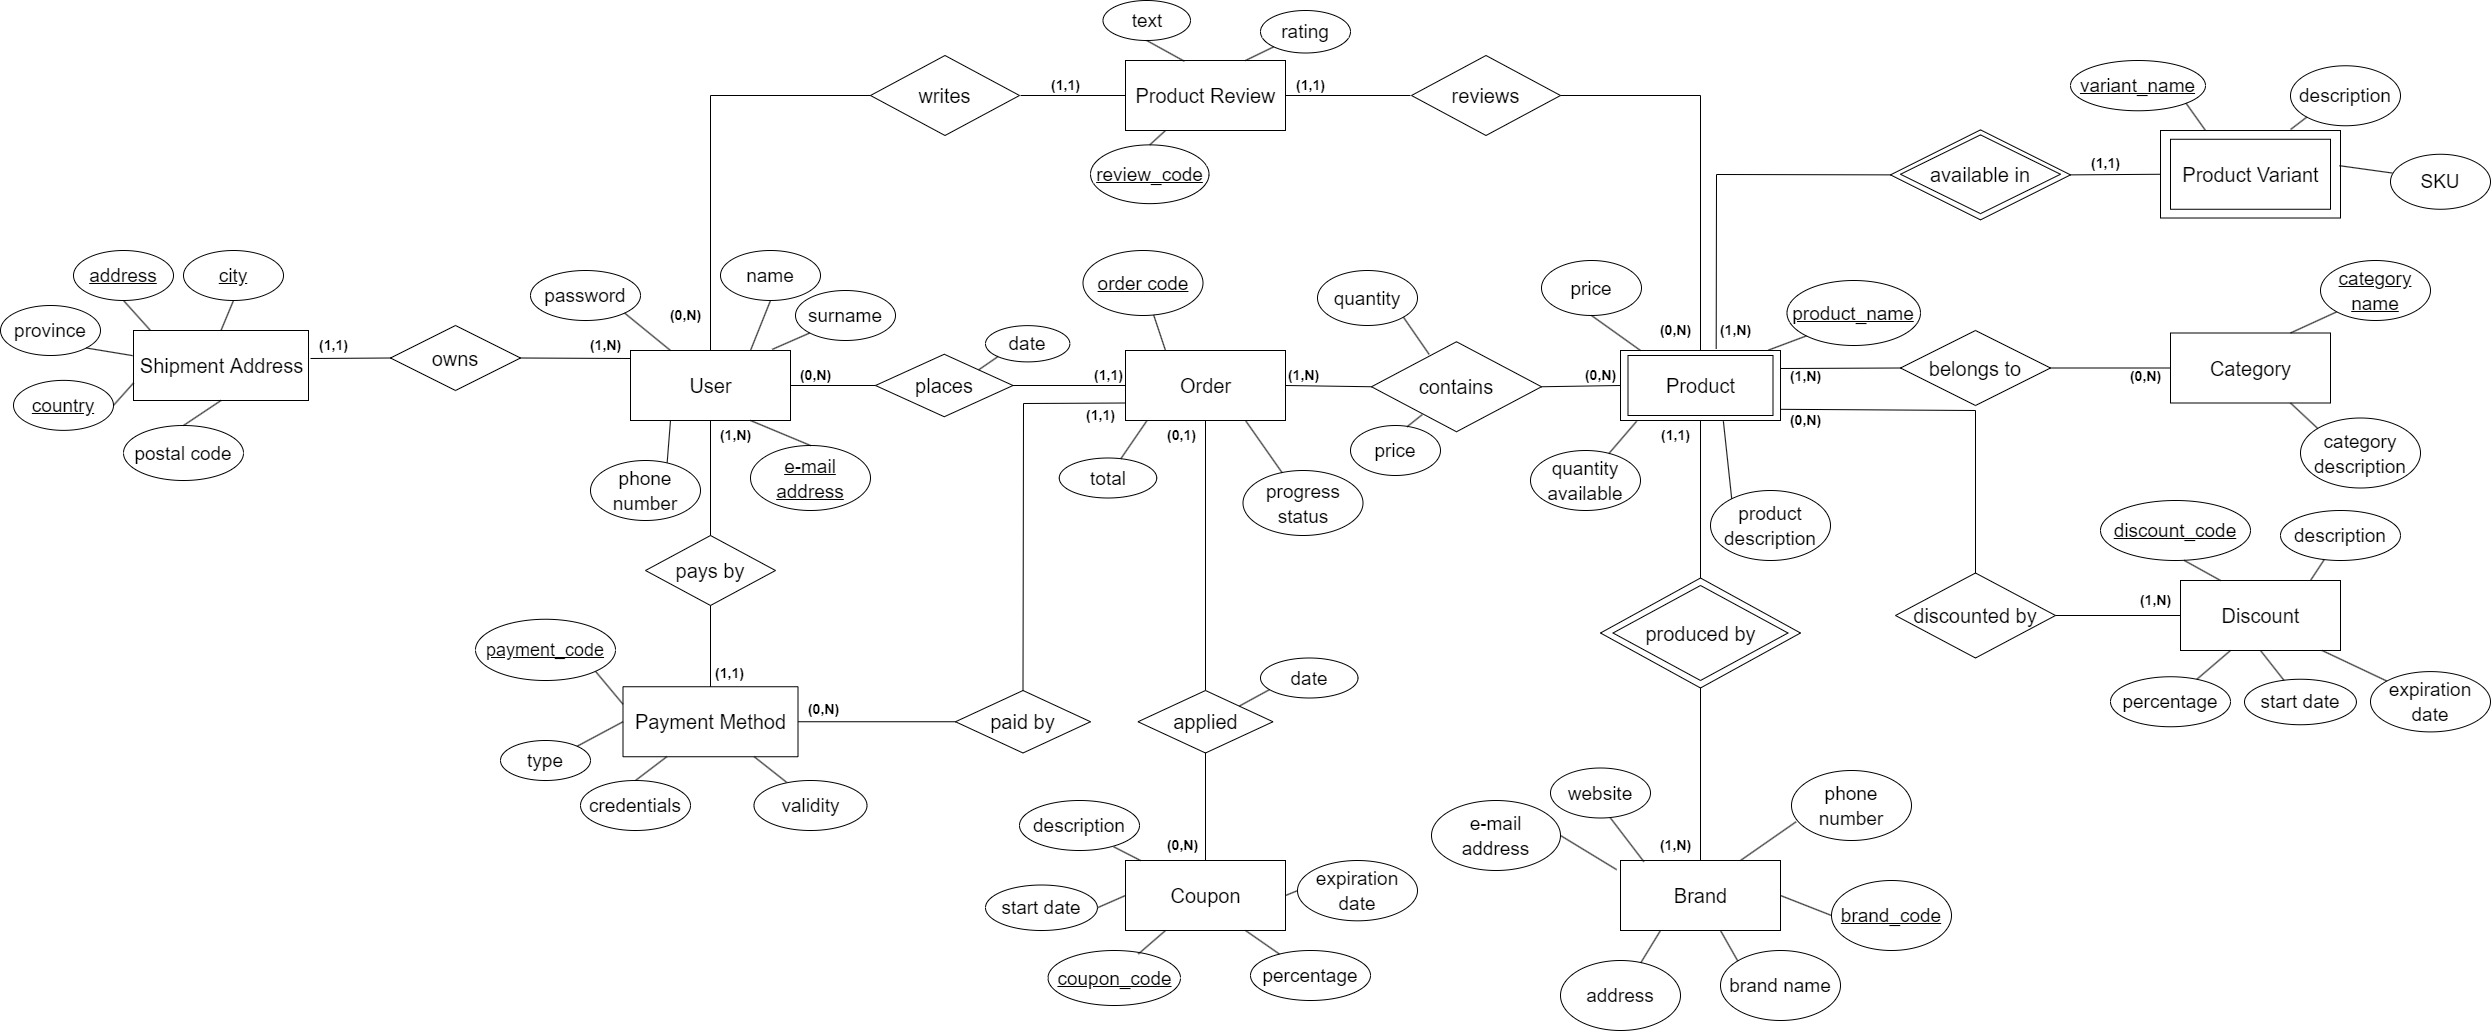
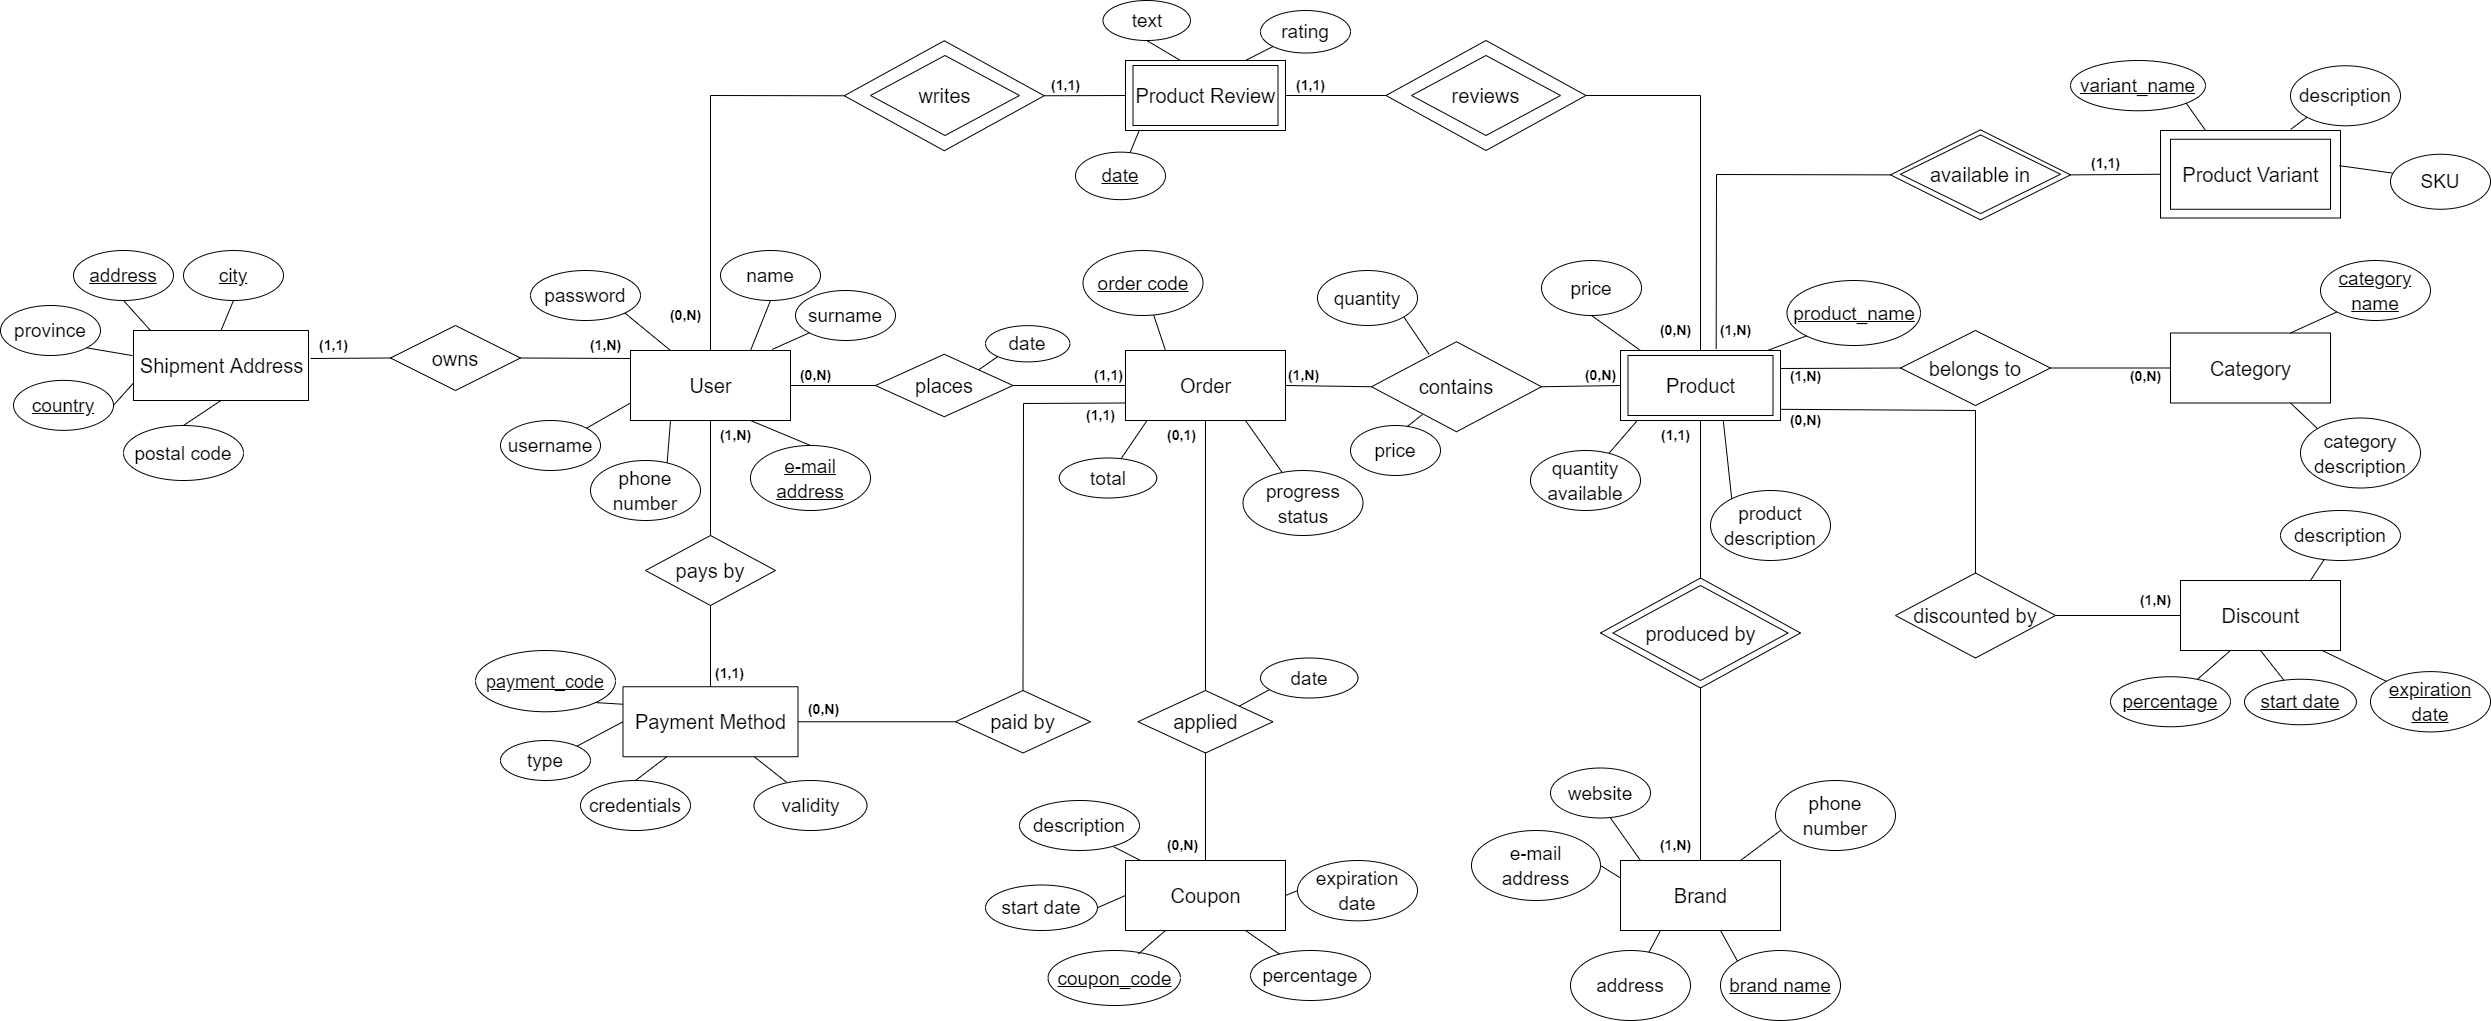
Creato file per rationale ER, modificato il modello ER come descritto

diff --git a/documentation/database/Rationale ER.md b/documentation/database/Rationale ER.md
@@ -1,0 +1,9 @@
+# Rationale ER
+## Commenti alle scelte fatte nella realizzazione del modello ER
+
+**NB: Quanto indicato di seguito si intende valido in relazione alla natura puramente concettuale del modello ER!**
+
+- Un brand è univocamente determinato dal suo nome, come per le ragioni sociali
+- NON esistono, nel modello concettuale, identificatori sintetici. I codici, ove presenti, fanno riferimento (come indicato anche su GitHub) a codici esistenti o verosimili, e in ogni caso alfanumerici.
+- Con riferimento al punto precedente, le recensioni sono ora identificate univocamente dalla data di inserimento, dall'autore e dal prodotto di riferimento. Questo significa, per come abbiamo realizzato il modello, che è possibile che un utente scriva più di una recensione per lo stesso prodotto. Possiamo prenderla come la possibilità di aggiornare una recensione scritta nel passato o di scrivere una nuova a seguito del cambiamento delle caratteristiche di un prodotto.
+- Per noi, le varianti di un prodotto HANNO TUTTE lo stesso prezzo. NON consideriamo varianti di un ipotetico prodotto base le configurazioni che ne modifichino il prezzo. Ad esempio, un iPhone da 128 GB e uno da 64 GB sono DUE PRODOTTI, e non lo stesso. Al contrario, l'iPhone da 128 GB può avere una variante di colore argento, una di colore blu, una di colore rosso...
